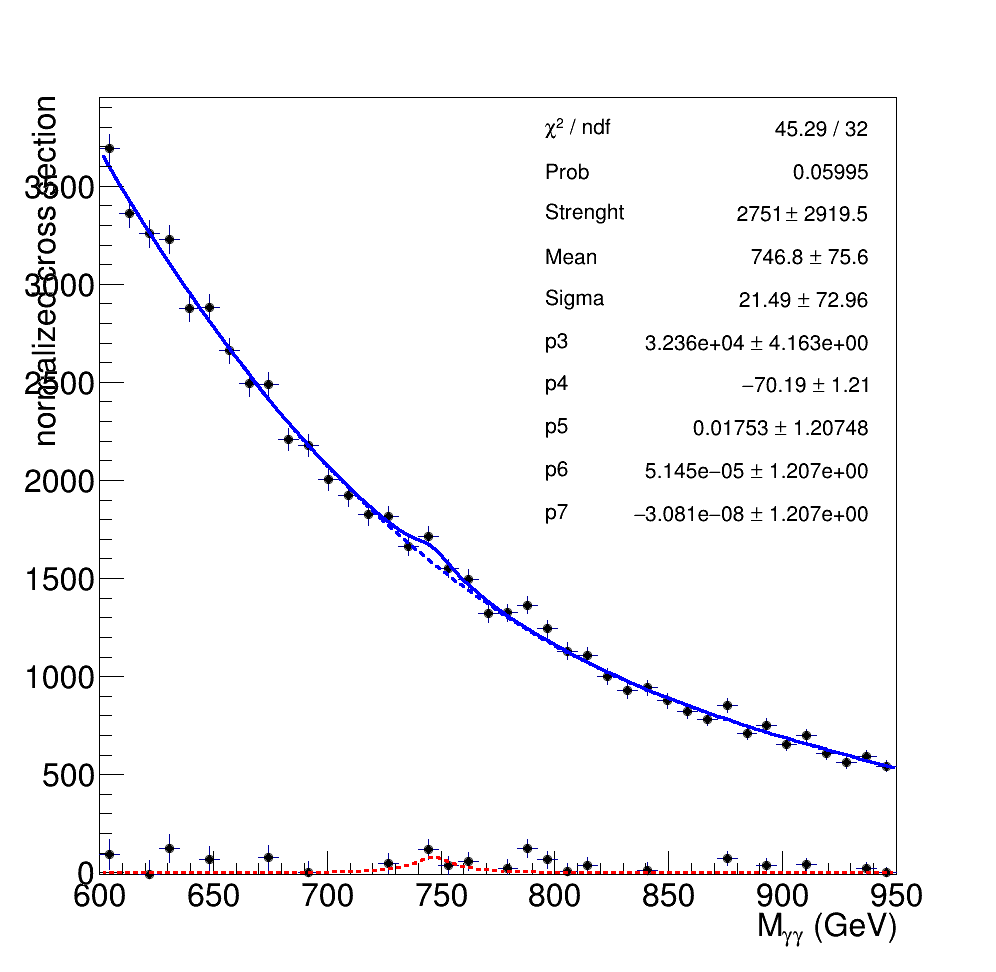
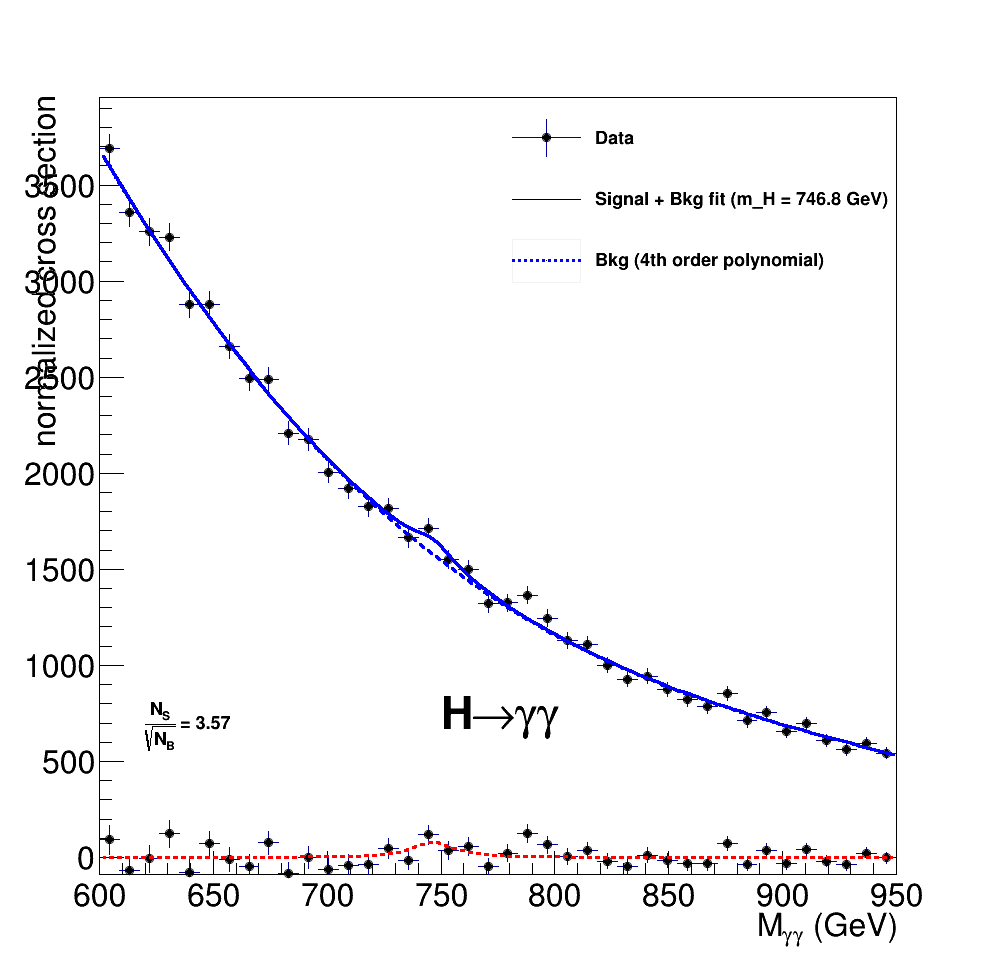
HistoHiggs with texts and Significance

diff --git a/3/histoHiggs.cpp b/3/histoHiggs.cpp
@@ -11,6 +11,8 @@
 //#include "TBranch.h"
 #include "TF1.h"
 #include "TMath.h"
+#include "TLatex.h"
+#include "TLegend.h"
 
 #include <iostream>
 
@@ -44,7 +46,8 @@ int main()
 	// make Canvas pretty
 	gStyle->SetOptTitle(0);
 	gStyle->SetOptStat(0);
-	gStyle->SetOptFit(1111);
+	//gStyle->SetOptFit(1111);
+	gStyle->SetOptFit(0000);
 	gStyle->SetStatBorderSize(0);
 	gStyle->SetStatX(.89);
 	gStyle->SetStatY(.89);
@@ -132,12 +135,39 @@ int main()
 	signal_histo.Sumw2();
 	signal_histo.Add(&bg, -1);
 
-	histo.SetMinimum(-10);
+	histo.SetMinimum(-90);
 
 	histo.Draw("e");
 	signal_histo.Draw("SAME");
 	signal.Draw("SAME");
 	bg.Draw("SAME");
+
+	// significance
+	double Ns, Nb;
+	Ns = signal_histo.Integral("width");
+	Nb = histo.Integral("width") - Ns;
+
+	// legend and texts
+	TLegend legend(0.5, 0.89, 0.89, 0.7);
+	legend.SetTextSize(0.02);
+	legend.SetBorderSize(0);
+	legend.SetTextFont(62);
+
+	legend.AddEntry("histo", "Data", "LPE");
+	char data_txt[100];
+	std::sprintf(data_txt, "Signal + Bkg fit (m_H = %.1f GeV)", param[1]);
+	legend.AddEntry("data", data_txt, "L");
+	legend.AddEntry("bg", "Bkg (4th order polynomial)");
+	legend.Draw("SAME");
+
+	char text_significance[100];
+	std::sprintf(text_significance, "#frac{N_{S}}{#sqrt{N_{B}}} = %.2f", Ns / std::sqrt(Nb));
+	TLatex latex_significance(620, 666, text_significance);
+	latex_significance.SetTextSize(0.02);
+	latex_significance.Draw("SAME");
+
+	TLatex text(750, 666, "H#rightarrow#gamma#gamma");
+	text.Draw("SAME");
 
 	canvas.Print("FatHiggs.pdf");
 	canvas.Print("FatHiggs.png");

diff --git a/README.md b/README.md
@@ -65,9 +65,12 @@ trigger efficiency, total cross section and the number of selected events.
 ## Histogram (3)
 
 The plot is made with the sum of the signal and the background. After this
-histogram is made, I fit a function BreitWidger + 4th order polynomial. From
+histogram is made, I fit a function BreitWigner + 4th order polynomial. From
 the parameters of the fit, I extract the signal. The solid blue line is the
-fit of background + signal. The dashed line is the polynomial only.
+fit of background + signal. The dashed blue line is the polynomial only.
+The dashed red line is the Breit Wigner with the parameters given by the fit.
+The signal *data* is calculated as the histogram points subtracted the
+polynomial fit.
 
 
 ## Compiling and Running
@@ -79,30 +82,46 @@ To compile the code, use the Makefile in each folder:
 
 * for datasetes generation (it will take a long time to run):
 
+```
     cd 1/
     make
     ./signal
     ./background
+```
 
 * for data anaylsis:
 
+```
     cd 2/
     make
     ./myHiggs
+```
 
 * for the histogram:
 
+```
     cd 3/
     make
+```
 
 
 ## Results
 
-### Trigger Efficiency
+* Trigger Efficiency
 
-### Selection of events
+  The trigger efficiency for the signal is 92% and for the background is 36%.
 
-### Mass and significance
+* Selection of events
+
+  Of the signal events that passed the trigger, 84% passed the selection.
+
+  There was no selection for background.
+
+* Mass and significance
+
+  The mean of the Breit Wigner fit is 746.8 GeV with a significance of 3.57
+
+
 
 
 ## Questions
@@ -148,13 +167,13 @@ To compile the code, use the Makefile in each folder:
 ### 4
 
 - [ ] write readme explaining everything
-    - [z] explain structure of code
+    - [x] explain structure of code
     - [x] explain how to run
     - [ ] explain/comment results
-        - [ ] trigger efficiency
-        - [ ] events passing selection
+        - [x] trigger efficiency
+        - [x] events passing selection
         - [ ] calculate number of events for luminosity of 100 / fb
-        - [ ] estimate statistical significance
+        - [x] estimate statistical significance
         - [ ] can we trust this results?
     - [ ] general comments
 
